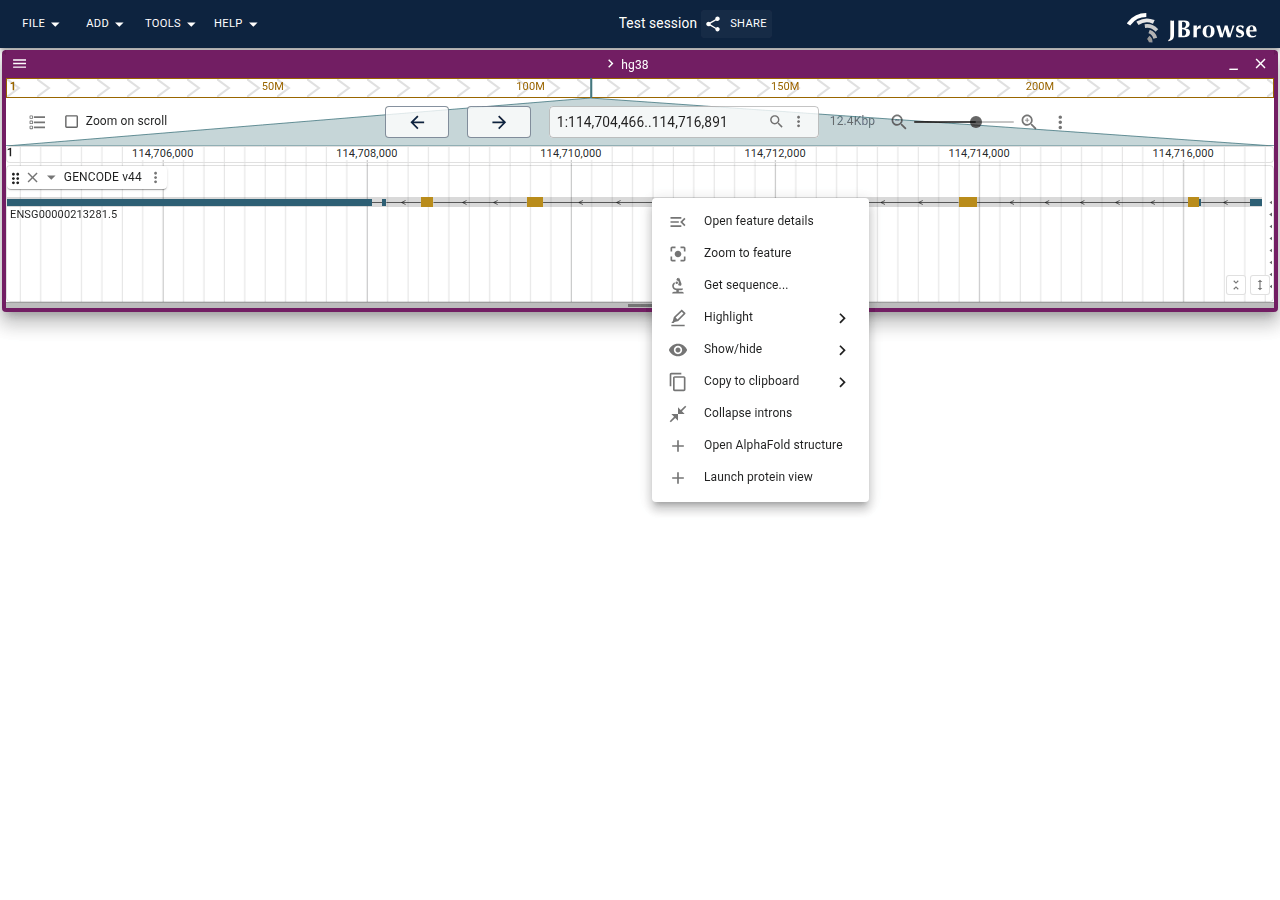
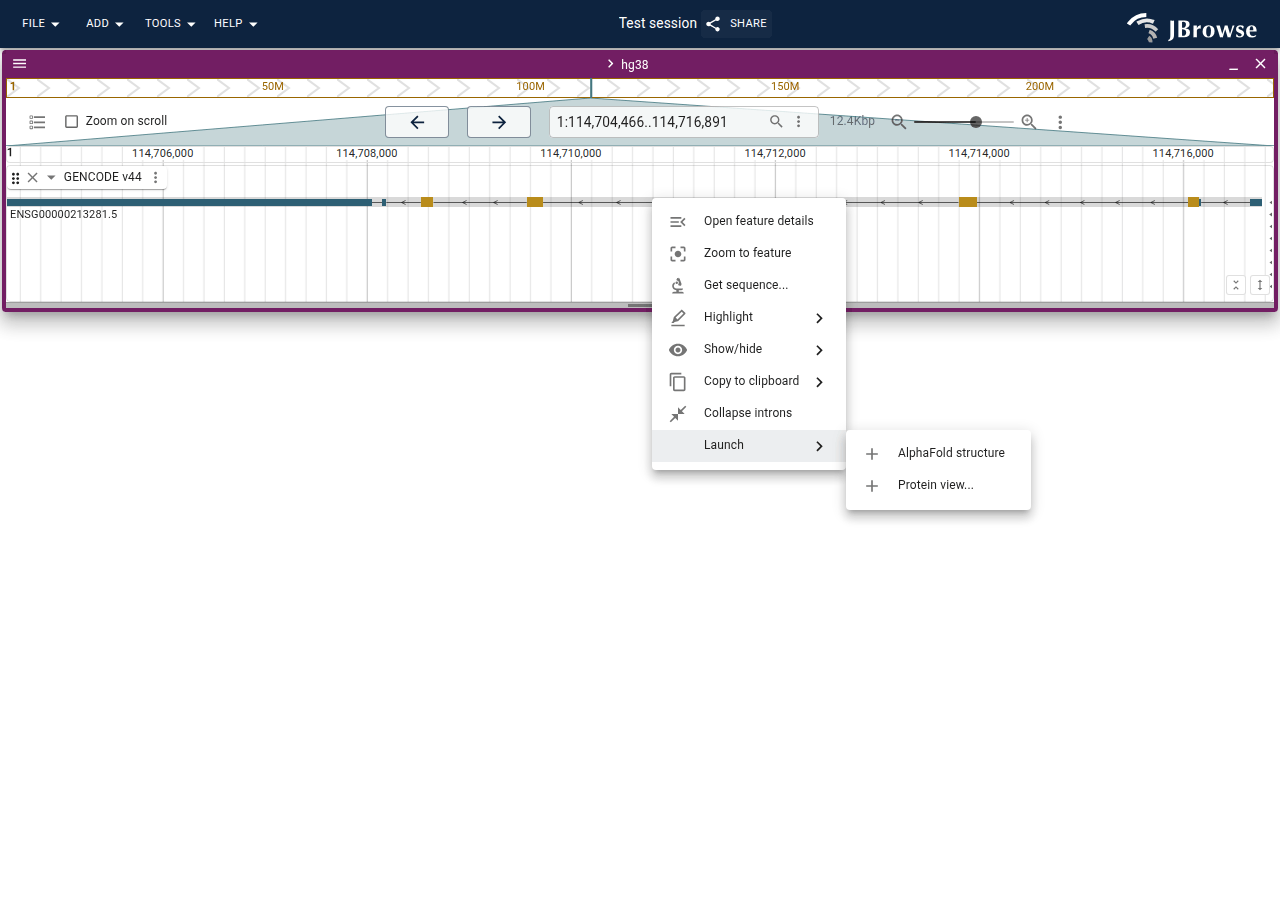
menu: the protein rows join the host's shared Launch submenu
"AlphaFold structure" and "Protein view..." go through core's
pushLaunchViewMenuItem, so they collect under one Launch row with msaview's
and any other plugin's, whichever extension runs first.

Changed region(s): [[0.5, 0.2178, 0.8125, 0.5911]]

diff --git a/test/plugin.test.ts b/test/plugin.test.ts
@@ -13,7 +13,7 @@ import {
   checkedStructureRows,
   cleanupJBrowse,
   clickLaunch,
-  clickMenuItem,
+  clickLaunchMenuItem,
   clickStructureRow,
   clinVarTrackFeatures,
   closeProteinViews,
@@ -25,6 +25,7 @@ import {
   launchBrowser,
   openConfig,
   openFeatureContextMenu,
+  openLaunchSubMenu,
   openSessionSpec,
   pageComplaintsSince,
   residueMarkCells,
@@ -126,20 +127,23 @@ describe('Protein3d Plugin E2E', () => {
     await captureScreenshot(page, screenshot('02-tracks-rendered'))
   }, 60_000)
 
-  it('contributes Launch protein view to the feature context menu', async () => {
+  it('contributes its rows to the context menu Launch submenu', async () => {
     const items = await openFeatureContextMenu(page)
-    expect(items).toContain('Launch protein view')
+    expect(items).toContain('Launch')
     // The host's own rows, asserted alongside ours because the plugin extends
     // the display's contextMenuItems and a throw in there costs the user the
     // whole menu. Checking only for our row would read that as a missing
     // feature, and the wipeout is the worse outcome of the two.
     expect(items).toContain('Open feature details')
+    expect(await openLaunchSubMenu(page)).toEqual(
+      expect.arrayContaining(['AlphaFold structure', 'Protein view...']),
+    )
     expect(pageComplaintsSince()).toEqual([])
     await captureScreenshot(page, screenshot('03-context-menu'))
   }, 60_000)
 
   it('launches a protein view with the structure aligned and rendered', async () => {
-    await clickMenuItem(page, 'Launch protein view')
+    await clickLaunchMenuItem(page, 'Protein view...')
     await page.waitForSelector(LAUNCH_DIALOG, { timeout: 30_000 })
     await captureScreenshot(page, screenshot('04-protein-dialog'))
 
@@ -200,9 +204,8 @@ describe('Protein3d Plugin E2E', () => {
   // structure, which is the whole point of the item.
   it('opens the AlphaFold structure in one click', async () => {
     await closeProteinViews(page)
-    const items = await openFeatureContextMenu(page)
-    expect(items).toContain('Open AlphaFold structure')
-    await clickMenuItem(page, 'Open AlphaFold structure')
+    await openFeatureContextMenu(page)
+    await clickLaunchMenuItem(page, 'AlphaFold structure')
     await waitForStructureRendered(page)
 
     expect(await page.$(LAUNCH_DIALOG)).toBeNull()
@@ -223,7 +226,7 @@ describe('Protein3d Plugin E2E', () => {
   it('aligns a 1D protein view to its UniProt entry on the host', async () => {
     await closeProteinViews(page)
     await openFeatureContextMenu(page)
-    await clickMenuItem(page, 'Launch protein view')
+    await clickLaunchMenuItem(page, 'Protein view...')
     await page.waitForSelector(LAUNCH_DIALOG, { timeout: 30_000 })
     await waitForLaunchEnabled(page)
     await page.click(
@@ -311,7 +314,7 @@ describe('Protein3d Plugin E2E', () => {
   it('launches the AlphaFold model and an experimental complex together', async () => {
     await closeProteinViews(page)
     await openFeatureContextMenu(page)
-    await clickMenuItem(page, 'Launch protein view')
+    await clickLaunchMenuItem(page, 'Protein view...')
     await page.waitForSelector(LAUNCH_DIALOG, { timeout: 30_000 })
     await waitForStructureListPainted(page)
 
@@ -1207,7 +1210,7 @@ describe('Protein3d Plugin E2E', () => {
     await waitForJBrowseLoad(page)
     await waitForTrackLoad(page)
     await openFeatureContextMenu(page)
-    await clickMenuItem(page, 'Launch protein view')
+    await clickLaunchMenuItem(page, 'Protein view...')
     await page.waitForSelector(LAUNCH_DIALOG, { timeout: 30_000 })
     await waitForStructureListPainted(page)
     expect(await checkedStructureRows(page)).toEqual([SITE_ROW])
@@ -1235,7 +1238,7 @@ describe('Protein3d Plugin E2E', () => {
   it("superposes AlphaFold DB's model onto the dataset's", async () => {
     await closeProteinViews(page)
     await openFeatureContextMenu(page)
-    await clickMenuItem(page, 'Launch protein view')
+    await clickLaunchMenuItem(page, 'Protein view...')
     await page.waitForSelector(LAUNCH_DIALOG, { timeout: 30_000 })
     await waitForStructureListPainted(page)
     await clickStructureRow(page, 'alphafold')

diff --git a/src/LaunchProteinView/menuTarget.test.ts b/src/LaunchProteinView/menuTarget.test.ts
@@ -1,7 +1,10 @@
+import { LAUNCH_LABEL, resolveSubMenu } from '@jbrowse/core/ui'
 import { SimpleFeature } from '@jbrowse/core/util'
 import { expect, test, vi } from 'vitest'
 
 import { resolveTarget, withProteinMenuItems } from '.'
+
+import type { MenuItem } from '@jbrowse/core/ui'
 
 const cds = (id: string) => ({
   uniqueId: id,
@@ -62,22 +65,46 @@ test('a click on the gene itself names no isoform', () => {
 
 const hostItems = [{ label: 'Host row', onClick: () => {} }]
 
-test('a gene gets the protein rows after the host rows', () => {
-  const items = withProteinMenuItems(
+const geneDisplay = {
+  contextMenuItems: () => [],
+  contextMenuInfo: {
+    item: { featureId: 'gene', type: 'gene' },
+    displayedRegionIndex: 0,
+  },
+  fetchFullFeature: () => Promise.resolve(gene),
+}
+
+function labels(items: MenuItem[]) {
+  return items.map(i => ('label' in i ? i.label : undefined))
+}
+
+function launchRows(items: MenuItem[]) {
+  const launch = items.find(i => 'subMenu' in i && i.label === LAUNCH_LABEL)
+  return launch && 'subMenu' in launch ? resolveSubMenu(launch) : []
+}
+
+test('a gene gets the protein rows in a Launch submenu after the host rows', () => {
+  const items = withProteinMenuItems(geneDisplay, hostItems)
+  expect(labels(items)).toEqual(['Host row', LAUNCH_LABEL])
+  expect(labels(launchRows(items))).toEqual([
+    'AlphaFold structure',
+    'Protein view...',
+  ])
+})
+
+test('the protein rows join a Launch submenu another plugin built', () => {
+  const items = withProteinMenuItems(geneDisplay, [
+    ...hostItems,
     {
-      contextMenuItems: () => [],
-      contextMenuInfo: {
-        item: { featureId: 'gene', type: 'gene' },
-        displayedRegionIndex: 0,
-      },
-      fetchFullFeature: () => Promise.resolve(gene),
+      label: LAUNCH_LABEL,
+      subMenu: [{ label: 'MSA view...', onClick: () => {} }],
     },
-    hostItems,
-  )
-  expect(items.map(i => ('label' in i ? i.label : undefined))).toEqual([
-    'Host row',
-    'Open AlphaFold structure',
-    'Launch protein view',
+  ])
+  expect(labels(items)).toEqual(['Host row', LAUNCH_LABEL])
+  expect(labels(launchRows(items))).toEqual([
+    'MSA view...',
+    'AlphaFold structure',
+    'Protein view...',
   ])
 })
 

diff --git a/test/setup.ts b/test/setup.ts
@@ -685,6 +685,49 @@ export async function hoverGenomeUntilStructureResponds(page: Page): Promise<{
   )
 }
 
+const LAUNCH_ROW = 'Launch'
+
+async function hoverLaunchRow(page: Page) {
+  for (const item of await page.$$('[role="menuitem"]')) {
+    if ((await item.evaluate(el => el.textContent)) === LAUNCH_ROW) {
+      await item.hover()
+      return
+    }
+  }
+  throw new Error(`no context menu item labelled "${LAUNCH_ROW}"`)
+}
+
+/**
+ * Open the context menu's Launch submenu, which the plugin's rows share with
+ * every other plugin's, and return the items of both menus.
+ */
+export async function openLaunchSubMenu(page: Page): Promise<string[]> {
+  const before = (await page.$$('[role="menuitem"]')).length
+  await hoverLaunchRow(page)
+  await page.waitForFunction(
+    n => document.querySelectorAll('[role="menuitem"]').length > n,
+    { timeout: 5000 },
+    before,
+  )
+  return readMenuItems(page)
+}
+
+export async function clickLaunchMenuItem(
+  page: Page,
+  label: string,
+): Promise<void> {
+  await hoverLaunchRow(page)
+  await page.waitForFunction(
+    text =>
+      [...document.querySelectorAll('[role="menuitem"]')].some(el =>
+        el.textContent.includes(text),
+      ),
+    { timeout: 5000 },
+    label,
+  )
+  await clickMenuItem(page, label)
+}
+
 export async function clickMenuItem(page: Page, label: string): Promise<void> {
   for (const item of await page.$$('[role="menuitem"]')) {
     const text = await item.evaluate(el => el.textContent)

diff --git a/src/LaunchProteinView/index.ts b/src/LaunchProteinView/index.ts
@@ -1,5 +1,6 @@
 import { lazy } from 'react'
 
+import { pushLaunchViewMenuItem } from '@jbrowse/core/ui'
 import {
   getContainingTrack,
   getContainingView,
@@ -197,14 +198,14 @@ function proteinMenuItems(self: DisplayModel): MenuItem[] {
   return target && isGeneLikeType(target.type)
     ? [
         {
-          label: 'Open AlphaFold structure',
+          label: 'AlphaFold structure',
           icon: AddIcon,
           onClick: () => {
             openAlphaFoldStructure(self, target)
           },
         },
         {
-          label: 'Launch protein view',
+          label: 'Protein view...',
           icon: AddIcon,
           onClick: () => {
             launchProteinView(self, target)
@@ -221,7 +222,11 @@ export function withProteinMenuItems(
   hostItems: MenuItem[],
 ) {
   try {
-    return [...hostItems, ...proteinMenuItems(self)]
+    const items = [...hostItems]
+    for (const item of proteinMenuItems(self)) {
+      pushLaunchViewMenuItem(items, item)
+    }
+    return items
   } catch (e) {
     console.error('Protein view menu items failed', e)
     return hostItems

diff --git a/src/LaunchProteinView/openAlphaFoldStructure.test.ts b/src/LaunchProteinView/openAlphaFoldStructure.test.ts
@@ -1,3 +1,4 @@
+import { resolveSubMenu } from '@jbrowse/core/ui'
 import { SimpleFeature } from '@jbrowse/core/util'
 import { expect, test, vi } from 'vitest'
 
@@ -67,9 +68,9 @@ test('a second click while the lookup runs opens no second view', async () => {
     },
     [],
   )
-  const open = items.find(
-    item => 'label' in item && item.label === 'Open AlphaFold structure',
-  )
+  const open = items
+    .flatMap(item => ('subMenu' in item ? resolveSubMenu(item) : [item]))
+    .find(item => 'label' in item && item.label === 'AlphaFold structure')
   if (!open || !('onClick' in open)) {
     throw new Error('no AlphaFold menu item')
   }

diff --git a/docs/your-own-structures.md b/docs/your-own-structures.md
@@ -46,8 +46,8 @@ config. The file may be gzipped. The browser fetches the mapping and every
 structure, so the server has to send `Access-Control-Allow-Origin`, as for any
 URL below.
 
-Right-click a gene and choose **Launch protein view**: the **Structures for**
-list then leads with the dataset's structures for that gene, each with the
+Right-click a gene and choose **Launch › Protein view...**: the **Structures
+for** list then leads with the dataset's structures for that gene, each with the
 dataset's name beside it, and checks the first. A structure is offered when its
 id is one of a coding transcript's — its `name`, `ID`, `transcript_id`, or its
 protein's `protein_id` — or else the gene's own name or id, so a set keyed by
@@ -79,10 +79,10 @@ the first dialog that needs it, and reads each line's id and nothing else until
 a gene asks for it, so there is no index file to build. Measured 2026-11-05 on a
 genome's worth of ColabFold paths, 60,000 lines and 7.3 MB (729 kB gzipped):
 served to hosted JBrowse from local disk, the site's row appeared 0.53–0.67 s
-after **Launch protein view** was clicked, against 0.53–0.56 s for a two-line
-file, and Node inflated and indexed the file in well under half a second. What
-grows with the set is the one download, which every dataset in the config makes
-on the first dialog of a page whichever gene was clicked.
+after **Protein view...** was clicked, against 0.53–0.56 s for a two-line file,
+and Node inflated and indexed the file in well under half a second. What grows
+with the set is the one download, which every dataset in the config makes on the
+first dialog of a page whichever gene was clicked.
 
 A session spec opens a dataset's structure too, by `datasetId` beside a
 `transcriptId` or a `gene`; see
@@ -90,7 +90,7 @@ A session spec opens a dataset's structure too, by `datasetId` beside a
 
 ## From the gene: the "Your file or URL" tab
 
-1. Right-click a gene or transcript and choose **Launch protein view**.
+1. Right-click a gene or transcript and choose **Launch › Protein view...**.
 2. Open the **Your file or URL** tab and either pick a local file or paste a
    URL.
 3. Choose the transcript to map. The dialog reads the structure's sequence and

diff --git a/README.md b/README.md
@@ -11,17 +11,17 @@ selected in magenta on the structure, and its codon is marked on the gene.
 CI re-renders the figure from `main` every hour
 ([scripts/readme-figure.mjs](scripts/readme-figure.mjs)).
 
-Right-click a gene and choose **Open AlphaFold structure** for its predicted
-model in one click, or **Launch protein view** for the dialog that offers every
-choice. The dialog looks the gene up in UniProt and lists every structure found
-for it in one list: the AlphaFold model, the experimental PDB entries RCSB maps
-to that UniProt entry with their partner proteins and ligands, and the complexes
-AlphaFold DB predicted, grouped by what each shows, led by any structures the
-site lists for the gene in a dataset of its own. Check several to open them
-superposed in one view. It can also search Foldseek for related structures, or
-open your own file. The plugin aligns each structure to the transcript's
-translation, so hovering a residue highlights its codon and hovering a codon
-highlights its residue.
+Right-click a gene and choose **Launch › AlphaFold structure** for its predicted
+model in one click, or **Launch › Protein view...** for the dialog that offers
+every choice. The dialog looks the gene up in UniProt and lists every structure
+found for it in one list: the AlphaFold model, the experimental PDB entries RCSB
+maps to that UniProt entry with their partner proteins and ligands, and the
+complexes AlphaFold DB predicted, grouped by what each shows, led by any
+structures the site lists for the gene in a dataset of its own. Check several to
+open them superposed in one view. It can also search Foldseek for related
+structures, or open your own file. The plugin aligns each structure to the
+transcript's translation, so hovering a residue highlights its codon and
+hovering a codon highlights its residue.
 
 ## Try it
 

diff --git a/docs/launching.md b/docs/launching.md
@@ -37,12 +37,12 @@ https://jbrowse.org/code/jb2/main/?config=/ucsc/hg38/config.json&session=spec-{"
 
 The plugin looks the name up as the genome view's search box does, opens a
 genome view on the gene with the track the index found it in, and works out the
-rest as the **Open AlphaFold structure** menu item does: the UniProt entry from
-the gene's identifiers, the AlphaFold model of that entry, and the isoform that
-model was folded from. Where the model matches several isoforms, or there is no
-model, a GENCODE track's `MANE_Select` (else `Ensembl_canonical`) transcript
-leads; NCBI's RefSeq GFF carries no such tag. Anything else the spec names wins
-over what the lookup would pick:
+rest as the **Launch › AlphaFold structure** menu item does: the UniProt entry
+from the gene's identifiers, the AlphaFold model of that entry, and the isoform
+that model was folded from. Where the model matches several isoforms, or there
+is no model, a GENCODE track's `MANE_Select` (else `Ensembl_canonical`)
+transcript leads; NCBI's RefSeq GFF carries no such tag. Anything else the spec
+names wins over what the lookup would pick:
 
 - `pdbId`, `uniprotId`, `url` or `structures` choose the structure,
 - `transcriptId` chooses the isoform, among the gene's own,

diff --git a/docs/live-checks.md b/docs/live-checks.md
@@ -63,9 +63,9 @@ catch the dialog mid-fade; don't commit that version.
 
 The dialog is a page of its own to check: right-click a gene on a hosted session
 (a `LinearGenomeView` spec on `protein3d_config.json`'s GENCODE track), choose
-**Launch protein view**, and wait for the structure list to stop saying "Listing
-PDB entries" or "Asking AlphaFold DB". Find the gene the way `host-compat`'s
-`probeContextMenu` does, by hovering until the display reports
+**Launch › Protein view...**, and wait for the structure list to stop saying
+"Listing PDB entries" or "Asking AlphaFold DB". Find the gene the way
+`host-compat`'s `probeContextMenu` does, by hovering until the display reports
 `featureIdUnderMouse`. Checking rows is a click on
 `[data-testid="structure-row-<key>"]` (`alphafold`, `pdb:9btm`, `complex:AF-…`).
 Measure Launch at a 1280×900 viewport: the tab bounds its own height, so

diff --git a/docs/testing.md b/docs/testing.md
@@ -19,8 +19,8 @@ path shows up as a failed nightly rather than as a bug report.
 
 `test/plugin.test.ts` drives a real `jbrowse create` instance with the built ESM
 bundle (`pnpm vitest run test/plugin.test.ts`; `SKIP_BUILD=1` reuses `dist/`).
-It clicks all the way through: right-click a gene → `Launch protein view` → wait
-for the dialog to finish resolving → Launch → molstar draws the structure.
+It clicks all the way through: right-click a gene → `Launch › Protein view...` →
+wait for the dialog to finish resolving → Launch → molstar draws the structure.
 
 Every step asserts. There is no logged-and-continue path, because a suite that
 returns early on "no menu items" passes green against a bundle that error-pages
